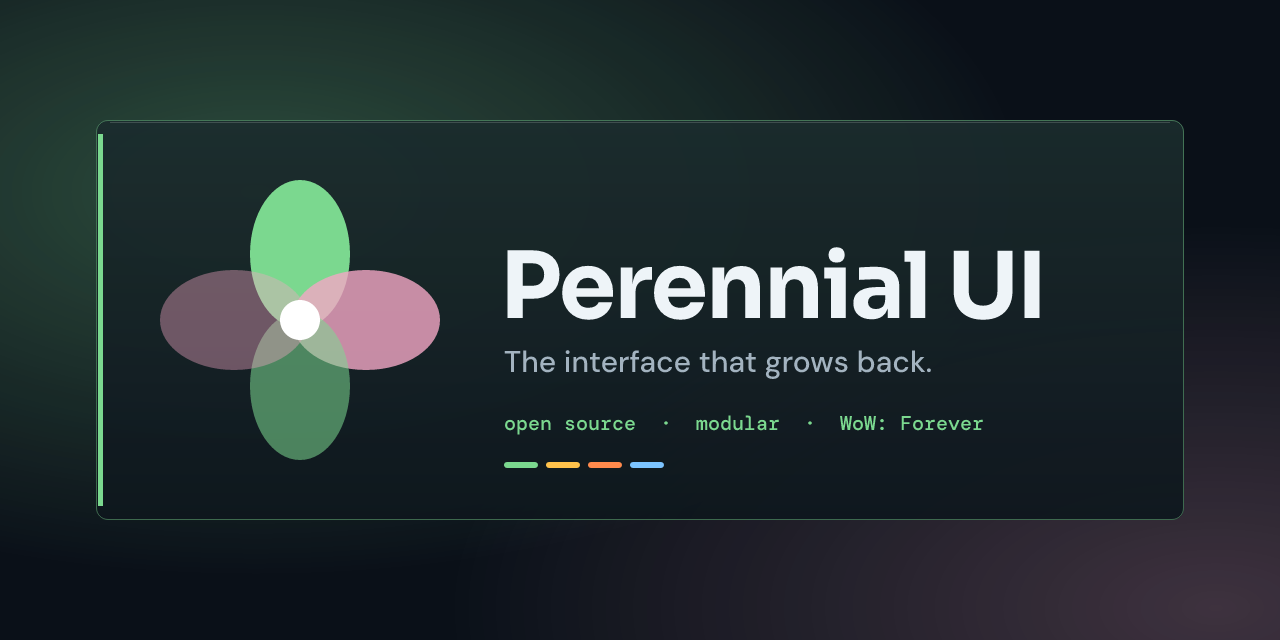
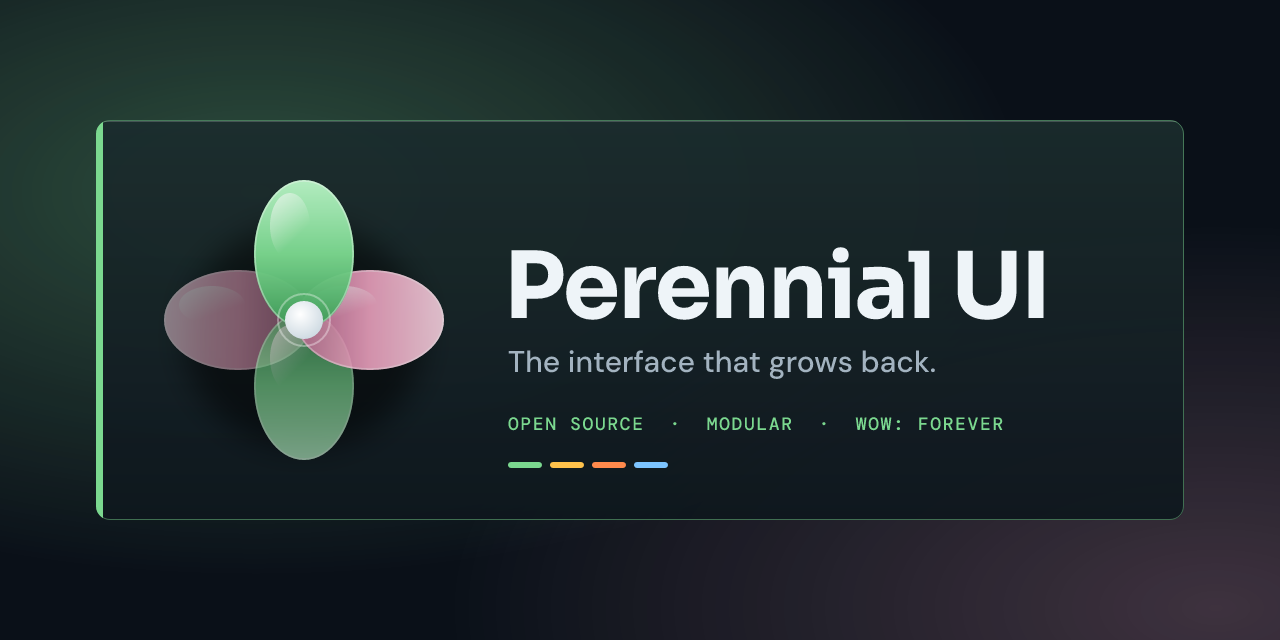
Give the petals depth, fix the rail at rounded corners, capitalise the label
Petals get a gradient, a rim and a sheen lit from the top left. The
accent rail now follows the panel's rounded corners, in the header and
in the addon (a third nine-sliced mask). Brand artwork is generated by
tools/make-brand.js.

diff --git a/tools/make-brand.js b/tools/make-brand.js
@@ -1,0 +1,139 @@
+// SPDX-License-Identifier: GPL-3.0-or-later
+// Generates the brand artwork in branding/: logo.svg, header.svg and their
+// PNG exports. Text is written as outlines taken from the bundled fonts, so
+// the SVGs look the same on any machine.
+//
+// Needs two dev-only packages (not part of the addon):
+//   npm install --no-save opentype.js@1.3.4 @resvg/resvg-js
+// Run from the repo root: node tools/make-brand.js
+const fs = require("fs");
+const path = require("path");
+const opentype = require("opentype.js");
+const { Resvg } = require("@resvg/resvg-js");
+
+const root = path.join(__dirname, "..");
+const fonts = path.join(root, "PerennialUI", "Media", "Fonts");
+const out = path.join(root, "branding");
+
+const sora = opentype.loadSync(path.join(fonts, "Sora-Bold.ttf"));
+const sans = opentype.loadSync(path.join(fonts, "DMSans-Medium.ttf"));
+const mono = opentype.loadSync(path.join(fonts, "DMMono-Medium.ttf"));
+
+// The fixed brand colours are the spring season's accent pair.
+const A = { light: "#B9F4C6", mid: "#7BD88F", deep: "#3A9A55" };
+const B = { light: "#FCD6E4", mid: "#F3A6C4", deep: "#B4628A" };
+
+const outline = (font, text, x, y, size, fill, tracking) =>
+  `<path fill="${fill}" d="${font.getPath(text, x, y, size, { kerning: true, tracking: tracking || 0 }).toPathData(2)}"/>`;
+
+// Shared definitions for the petal mark. One petal is drawn pointing up and
+// reused at four rotations; `s` scales stroke widths and blur to the artwork.
+function petalDefs(s) {
+  return `
+    <linearGradient id="petalA" x1="0.5" y1="0" x2="0.5" y2="1">
+      <stop offset="0" stop-color="${A.light}"/><stop offset="0.5" stop-color="${A.mid}"/><stop offset="1" stop-color="${A.deep}"/>
+    </linearGradient>
+    <linearGradient id="petalB" x1="0.5" y1="0" x2="0.5" y2="1">
+      <stop offset="0" stop-color="${B.light}"/><stop offset="0.5" stop-color="${B.mid}"/><stop offset="1" stop-color="${B.deep}"/>
+    </linearGradient>
+    <linearGradient id="sheen" x1="0.2" y1="0" x2="0.8" y2="1">
+      <stop offset="0" stop-color="#FFFFFF" stop-opacity="0.6"/><stop offset="0.7" stop-color="#FFFFFF" stop-opacity="0"/>
+    </linearGradient>
+    <radialGradient id="core" cx="0.4" cy="0.35" r="0.75">
+      <stop offset="0" stop-color="#FFFFFF"/><stop offset="1" stop-color="#C9D6DF"/>
+    </radialGradient>
+    <filter id="shadow" x="-50%" y="-50%" width="200%" height="200%"><feGaussianBlur stdDeviation="${14 * s}"/></filter>
+    <ellipse id="petal" cx="0" cy="-66" rx="50" ry="74"/>
+    <ellipse id="rim" cx="0" cy="-66" rx="49" ry="73" fill="none" stroke="#FFFFFF" stroke-opacity="0.38" stroke-width="1.6"/>`;
+}
+
+// The mark, centred on the origin, about 280 units across. Petals are drawn
+// back to front so each one visibly overlaps the one before it.
+function petals() {
+  // The sheen is placed in screen space, not rotated with the petal, so the
+  // light falls from the top left on all four.
+  const petal = (angle, fill, opacity) => {
+    const upright = angle % 180 === 0;
+    const r = (angle * Math.PI) / 180;
+    const cx = 66 * Math.sin(r), cy = -66 * Math.cos(r);
+    const sheen = upright
+      ? `<ellipse cx="${(cx - 14).toFixed(1)}" cy="${(cy - 28).toFixed(1)}" rx="20" ry="33" fill="url(#sheen)"/>`
+      : `<ellipse cx="${(cx - 26).toFixed(1)}" cy="${(cy - 15).toFixed(1)}" rx="33" ry="19" fill="url(#sheen)"/>`;
+    return `<g opacity="${opacity}"><g transform="rotate(${angle})"><use href="#petal" fill="url(#${fill})"/><use href="#rim"/></g>${sheen}</g>`;
+  };
+  return `
+    <ellipse cx="0" cy="16" rx="120" ry="112" fill="#000000" opacity="0.5" filter="url(#shadow)"/>
+    ${petal(270, "petalB", 0.5)}
+    ${petal(180, "petalA", 0.62)}
+    ${petal(90, "petalB", 0.86)}
+    ${petal(0, "petalA", 0.96)}
+    <circle r="26" fill="none" stroke="#FFFFFF" stroke-opacity="0.35" stroke-width="2"/>
+    <circle r="19" fill="url(#core)"/>`;
+}
+
+const logo = `<svg xmlns="http://www.w3.org/2000/svg" viewBox="0 0 512 512" role="img" aria-label="Perennial UI logo: four glass petals turning through a season's two colours">
+  <defs>${petalDefs(1)}
+    <linearGradient id="tile" x1="0" y1="0" x2="0" y2="1">
+      <stop offset="0" stop-color="#16242A"/><stop offset="1" stop-color="#0B1119"/>
+    </linearGradient>
+  </defs>
+  <rect width="512" height="512" rx="64" fill="url(#tile)"/>
+  <rect x="5" y="5" width="502" height="502" rx="59" fill="none" stroke="${A.mid}" stroke-opacity="0.5" stroke-width="8"/>
+  <g transform="translate(256 256) scale(1.38)">${petals()}
+  </g>
+</svg>
+`;
+
+const header = `<svg xmlns="http://www.w3.org/2000/svg" viewBox="0 0 1280 640" role="img" aria-label="Perennial UI: the interface that grows back">
+  <defs>${petalDefs(1)}
+    <radialGradient id="glowA" cx="0.2" cy="0.3" r="0.6">
+      <stop offset="0" stop-color="${A.mid}" stop-opacity="0.30"/><stop offset="1" stop-color="${A.mid}" stop-opacity="0"/>
+    </radialGradient>
+    <radialGradient id="glowB" cx="0.95" cy="0.95" r="0.6">
+      <stop offset="0" stop-color="${B.mid}" stop-opacity="0.22"/><stop offset="1" stop-color="${B.mid}" stop-opacity="0"/>
+    </radialGradient>
+    <linearGradient id="glass" x1="0" y1="0" x2="0" y2="1">
+      <stop offset="0" stop-color="#1A2B2C" stop-opacity="0.92"/><stop offset="1" stop-color="#0D151C" stop-opacity="0.92"/>
+    </linearGradient>
+    <clipPath id="panel"><rect x="96" y="120" width="1088" height="400" rx="14"/></clipPath>
+  </defs>
+  <rect width="1280" height="640" fill="#0A1018"/>
+  <rect width="1280" height="640" fill="url(#glowA)"/>
+  <rect width="1280" height="640" fill="url(#glowB)"/>
+
+  <!-- One glass panel. The accent rail is clipped to the panel so it follows the rounded corners. -->
+  <rect x="96" y="120" width="1088" height="400" rx="14" fill="url(#glass)"/>
+  <g clip-path="url(#panel)">
+    <rect x="96" y="120" width="7" height="400" fill="${A.mid}"/>
+    <rect x="103" y="121" width="1081" height="1" fill="#FFFFFF" fill-opacity="0.18"/>
+  </g>
+  <rect x="96.5" y="120.5" width="1087" height="399" rx="13.5" fill="none" stroke="${A.mid}" stroke-opacity="0.45"/>
+
+  <g transform="translate(304 320)">${petals()}
+  </g>
+
+  <!-- Text is converted to outlines. Wordmark: Sora Bold 92. Tagline: DM Sans Medium 30. Label: DM Mono Medium 18, capitals. -->
+  ${outline(sora, "Perennial UI", 504, 318, 92, "#EEF4F8", -22)}
+  ${outline(sans, "The interface that grows back.", 508, 372, 30, "#A3B3C0")}
+  ${outline(mono, "OPEN SOURCE  ·  MODULAR  ·  WOW: FOREVER", 508, 430, 18, A.mid, 90)}
+
+  <g transform="translate(508 462)">
+    <rect width="34" height="6" rx="3" fill="#7BD88F"/>
+    <rect x="42" width="34" height="6" rx="3" fill="#FFC24B"/>
+    <rect x="84" width="34" height="6" rx="3" fill="#FF8A4C"/>
+    <rect x="126" width="34" height="6" rx="3" fill="#7CC4FF"/>
+  </g>
+</svg>
+`;
+
+function png(svg, name, width) {
+  const image = new Resvg(svg, { fitTo: { mode: "width", value: width }, font: { loadSystemFonts: false } }).render();
+  fs.writeFileSync(path.join(out, name), image.asPng());
+  console.log(name, image.width + "x" + image.height);
+}
+
+fs.writeFileSync(path.join(out, "logo.svg"), logo);
+fs.writeFileSync(path.join(out, "header.svg"), header);
+png(header, "social-preview.png", 1280);
+png(logo, "logo-512.png", 512);
+png(logo, "logo-64.png", 64);

diff --git a/tools/make-textures.js b/tools/make-textures.js
@@ -4,6 +4,8 @@
 // nine-sliced (margin 8) and tinted by the theme at draw time:
 //   panel-fill.tga  a filled rounded rectangle
 //   panel-edge.tga  its one-pixel outline
+//   panel-rail.tga  only its left three pixels: the accent rail, which
+//                   follows the rounded corners
 // Run from the repo root: node tools/make-textures.js
 const fs = require("fs");
 const path = require("path");
@@ -25,7 +27,7 @@ function distance(x, y) {
 
 const clamp = (v) => Math.max(0, Math.min(1, v));
 
-function tga(alphaAt) {
+function tga(alphaAt, maxX) {
   const header = Buffer.alloc(18);
   header[2] = 2; // uncompressed true colour
   header.writeUInt16LE(SIZE, 12);
@@ -37,7 +39,8 @@ function tga(alphaAt) {
     for (let x = 0; x < SIZE; x++) {
       const i = (y * SIZE + x) * 4;
       pixels[i] = pixels[i + 1] = pixels[i + 2] = 255; // BGR white
-      pixels[i + 3] = Math.round(clamp(alphaAt(distance(x, y))) * 255);
+      const alpha = maxX !== undefined && x >= maxX ? 0 : clamp(alphaAt(distance(x, y)));
+      pixels[i + 3] = Math.round(alpha * 255);
     }
   }
   return Buffer.concat([header, pixels]);
@@ -48,4 +51,6 @@ fs.mkdirSync(out, { recursive: true });
 fs.writeFileSync(path.join(out, "panel-fill.tga"), tga((d) => 0.5 - d));
 // Edge: a band one pixel wide just inside the boundary.
 fs.writeFileSync(path.join(out, "panel-edge.tga"), tga((d) => Math.min(0.5 - d, d + 1.5)));
-console.log("Wrote panel-fill.tga and panel-edge.tga to " + out);
+// Rail: the fill, cut off after the third column.
+fs.writeFileSync(path.join(out, "panel-rail.tga"), tga((d) => 0.5 - d, 3));
+console.log("Wrote panel-fill.tga, panel-edge.tga and panel-rail.tga to " + out);

diff --git a/branding/README.md b/branding/README.md
@@ -20,6 +20,6 @@ In the game the mark follows the player's season. Everywhere else it uses the sp
 
 Type is Sora Bold for the wordmark, DM Sans Medium for text and DM Mono Medium for small labels, the same fonts the addon bundles.
 
-The artwork was drawn for this project as hand-written SVG and is licensed with the rest of the repository. The text in `header.svg` is converted to outlines, so it looks the same on any machine whether or not the fonts are installed. To change the wording, regenerate the outlines from the bundled font files. If you change an SVG, re-export its PNGs at the sizes above.
+The artwork was drawn for this project as hand-written SVG and is licensed with the rest of the repository. The text in `header.svg` is converted to outlines, so it looks the same on any machine whether or not the fonts are installed. Every file here is generated by `tools/make-brand.js`: change the artwork or wording there and run it, do not edit the SVGs by hand.
 
 Still to do: the in-game addon icon needs a TGA or BLP export placed in `PerennialUI/Media/` and referenced from the TOC.
